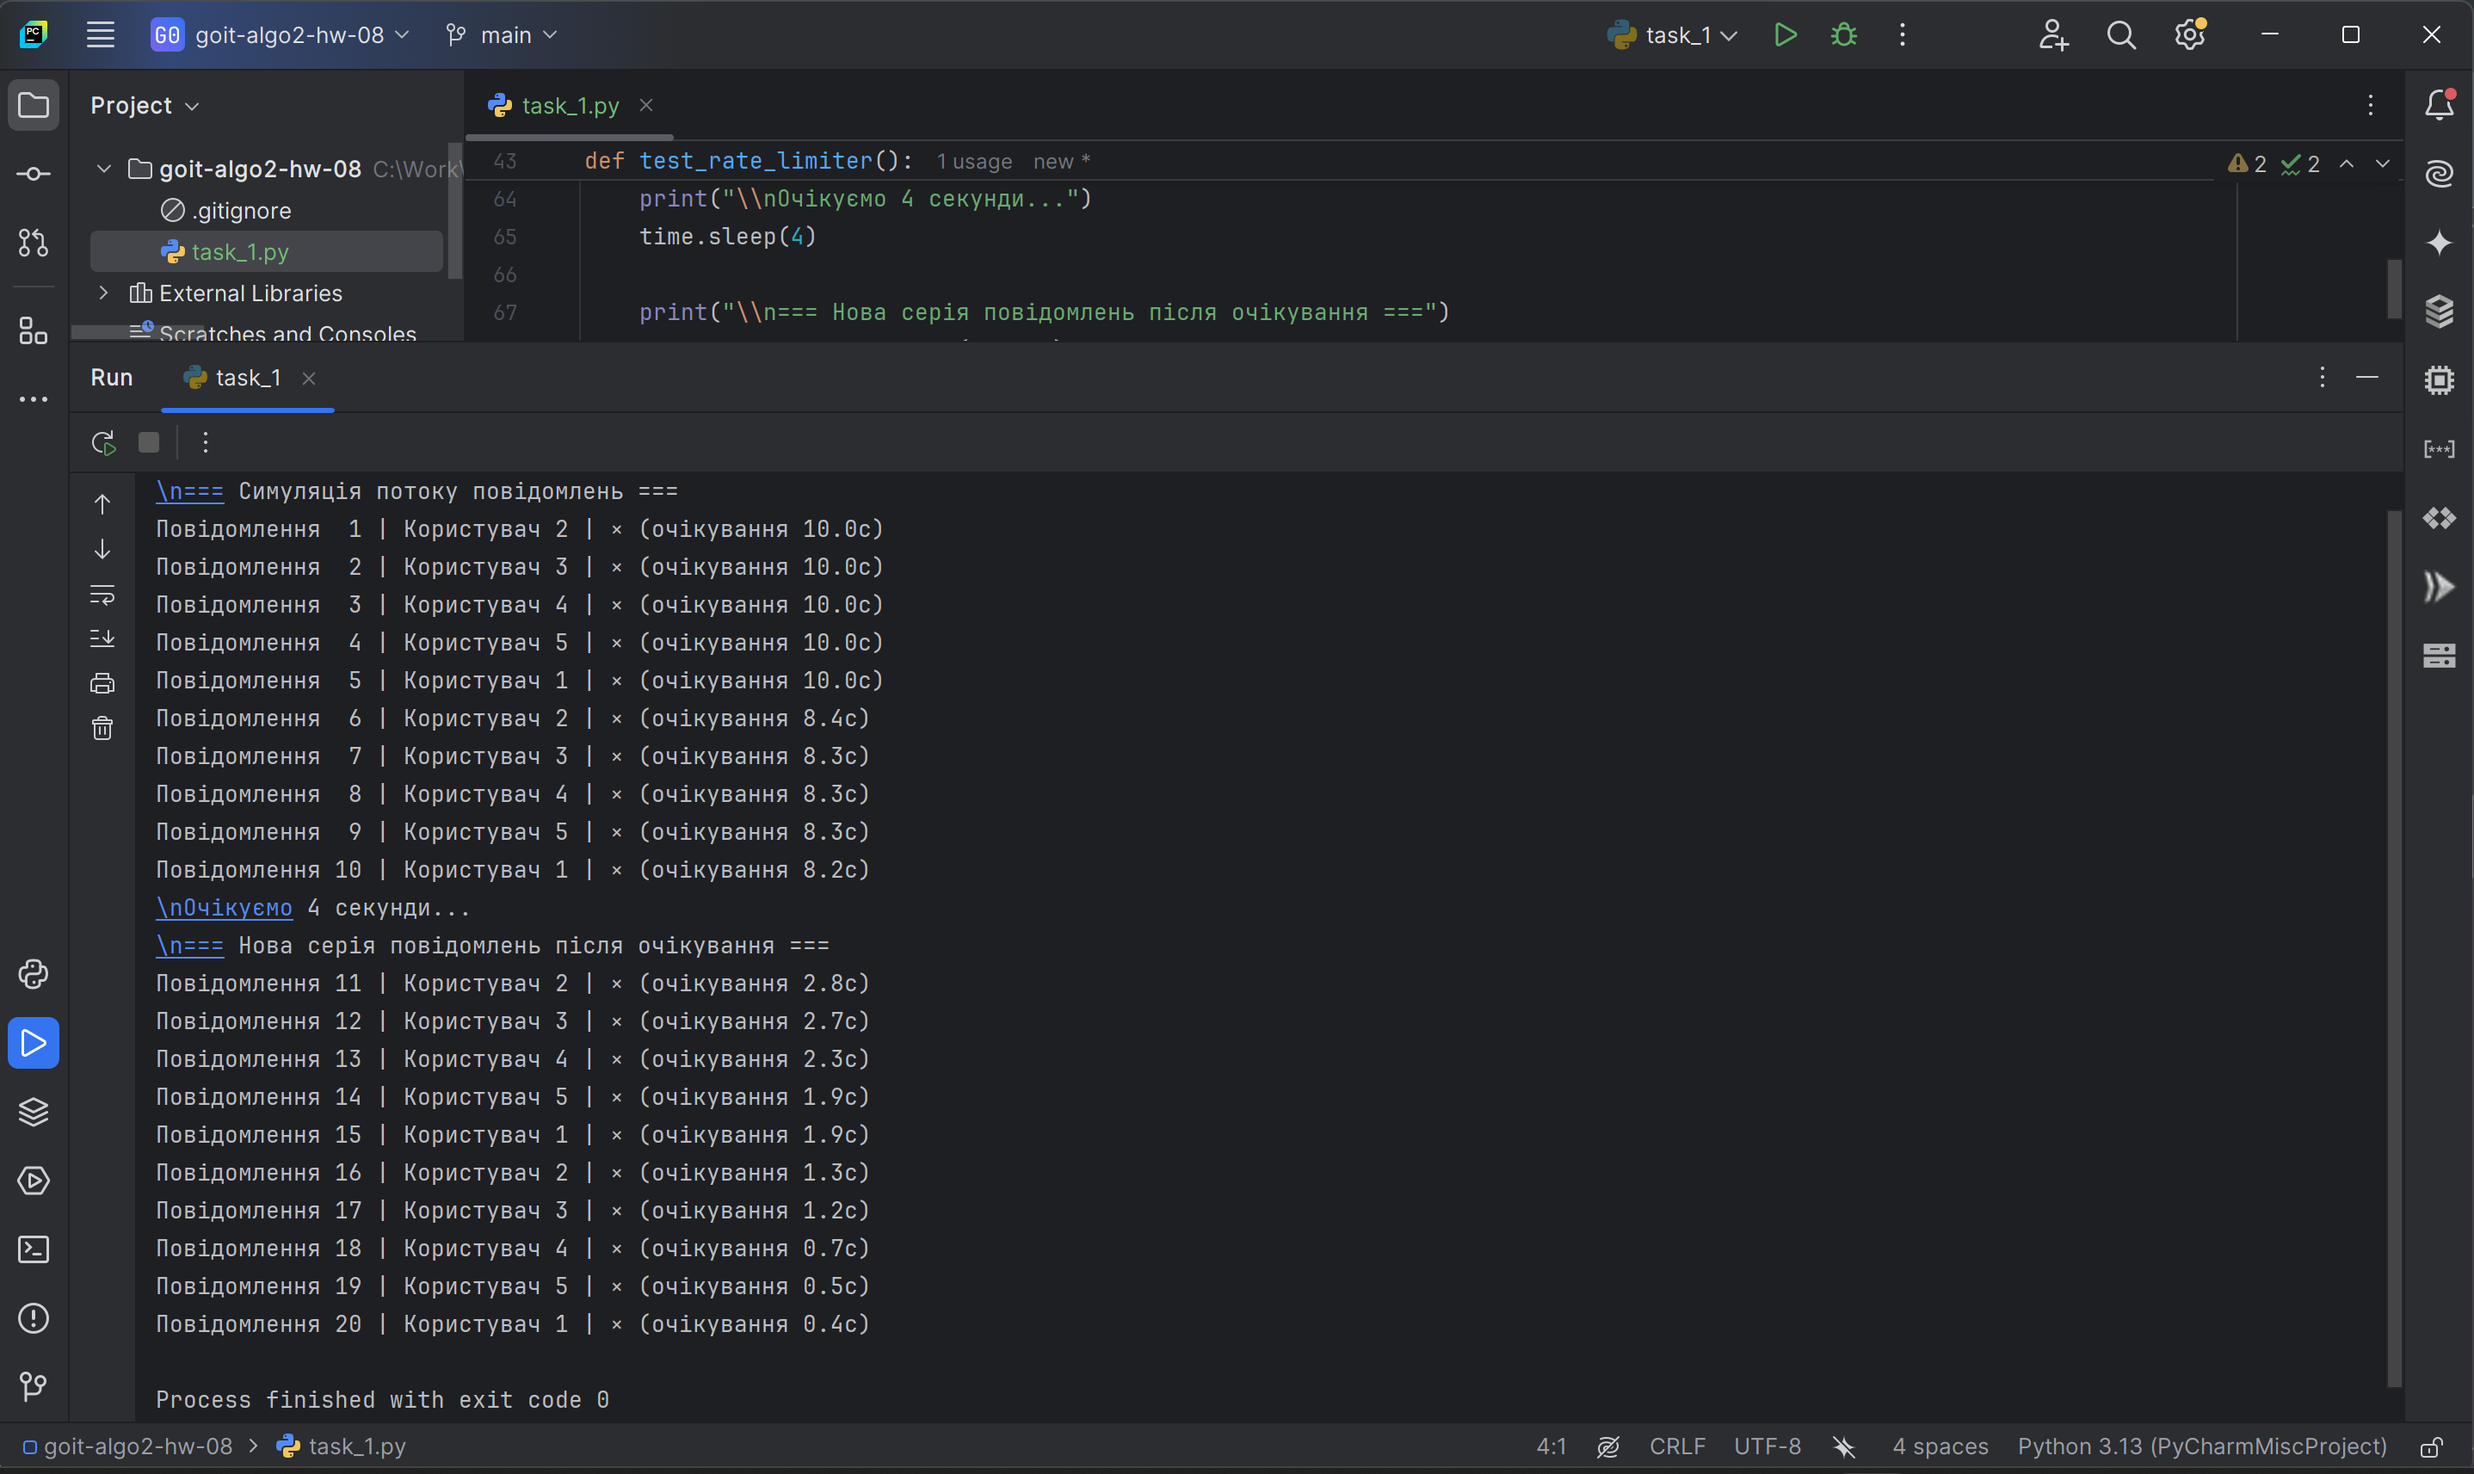
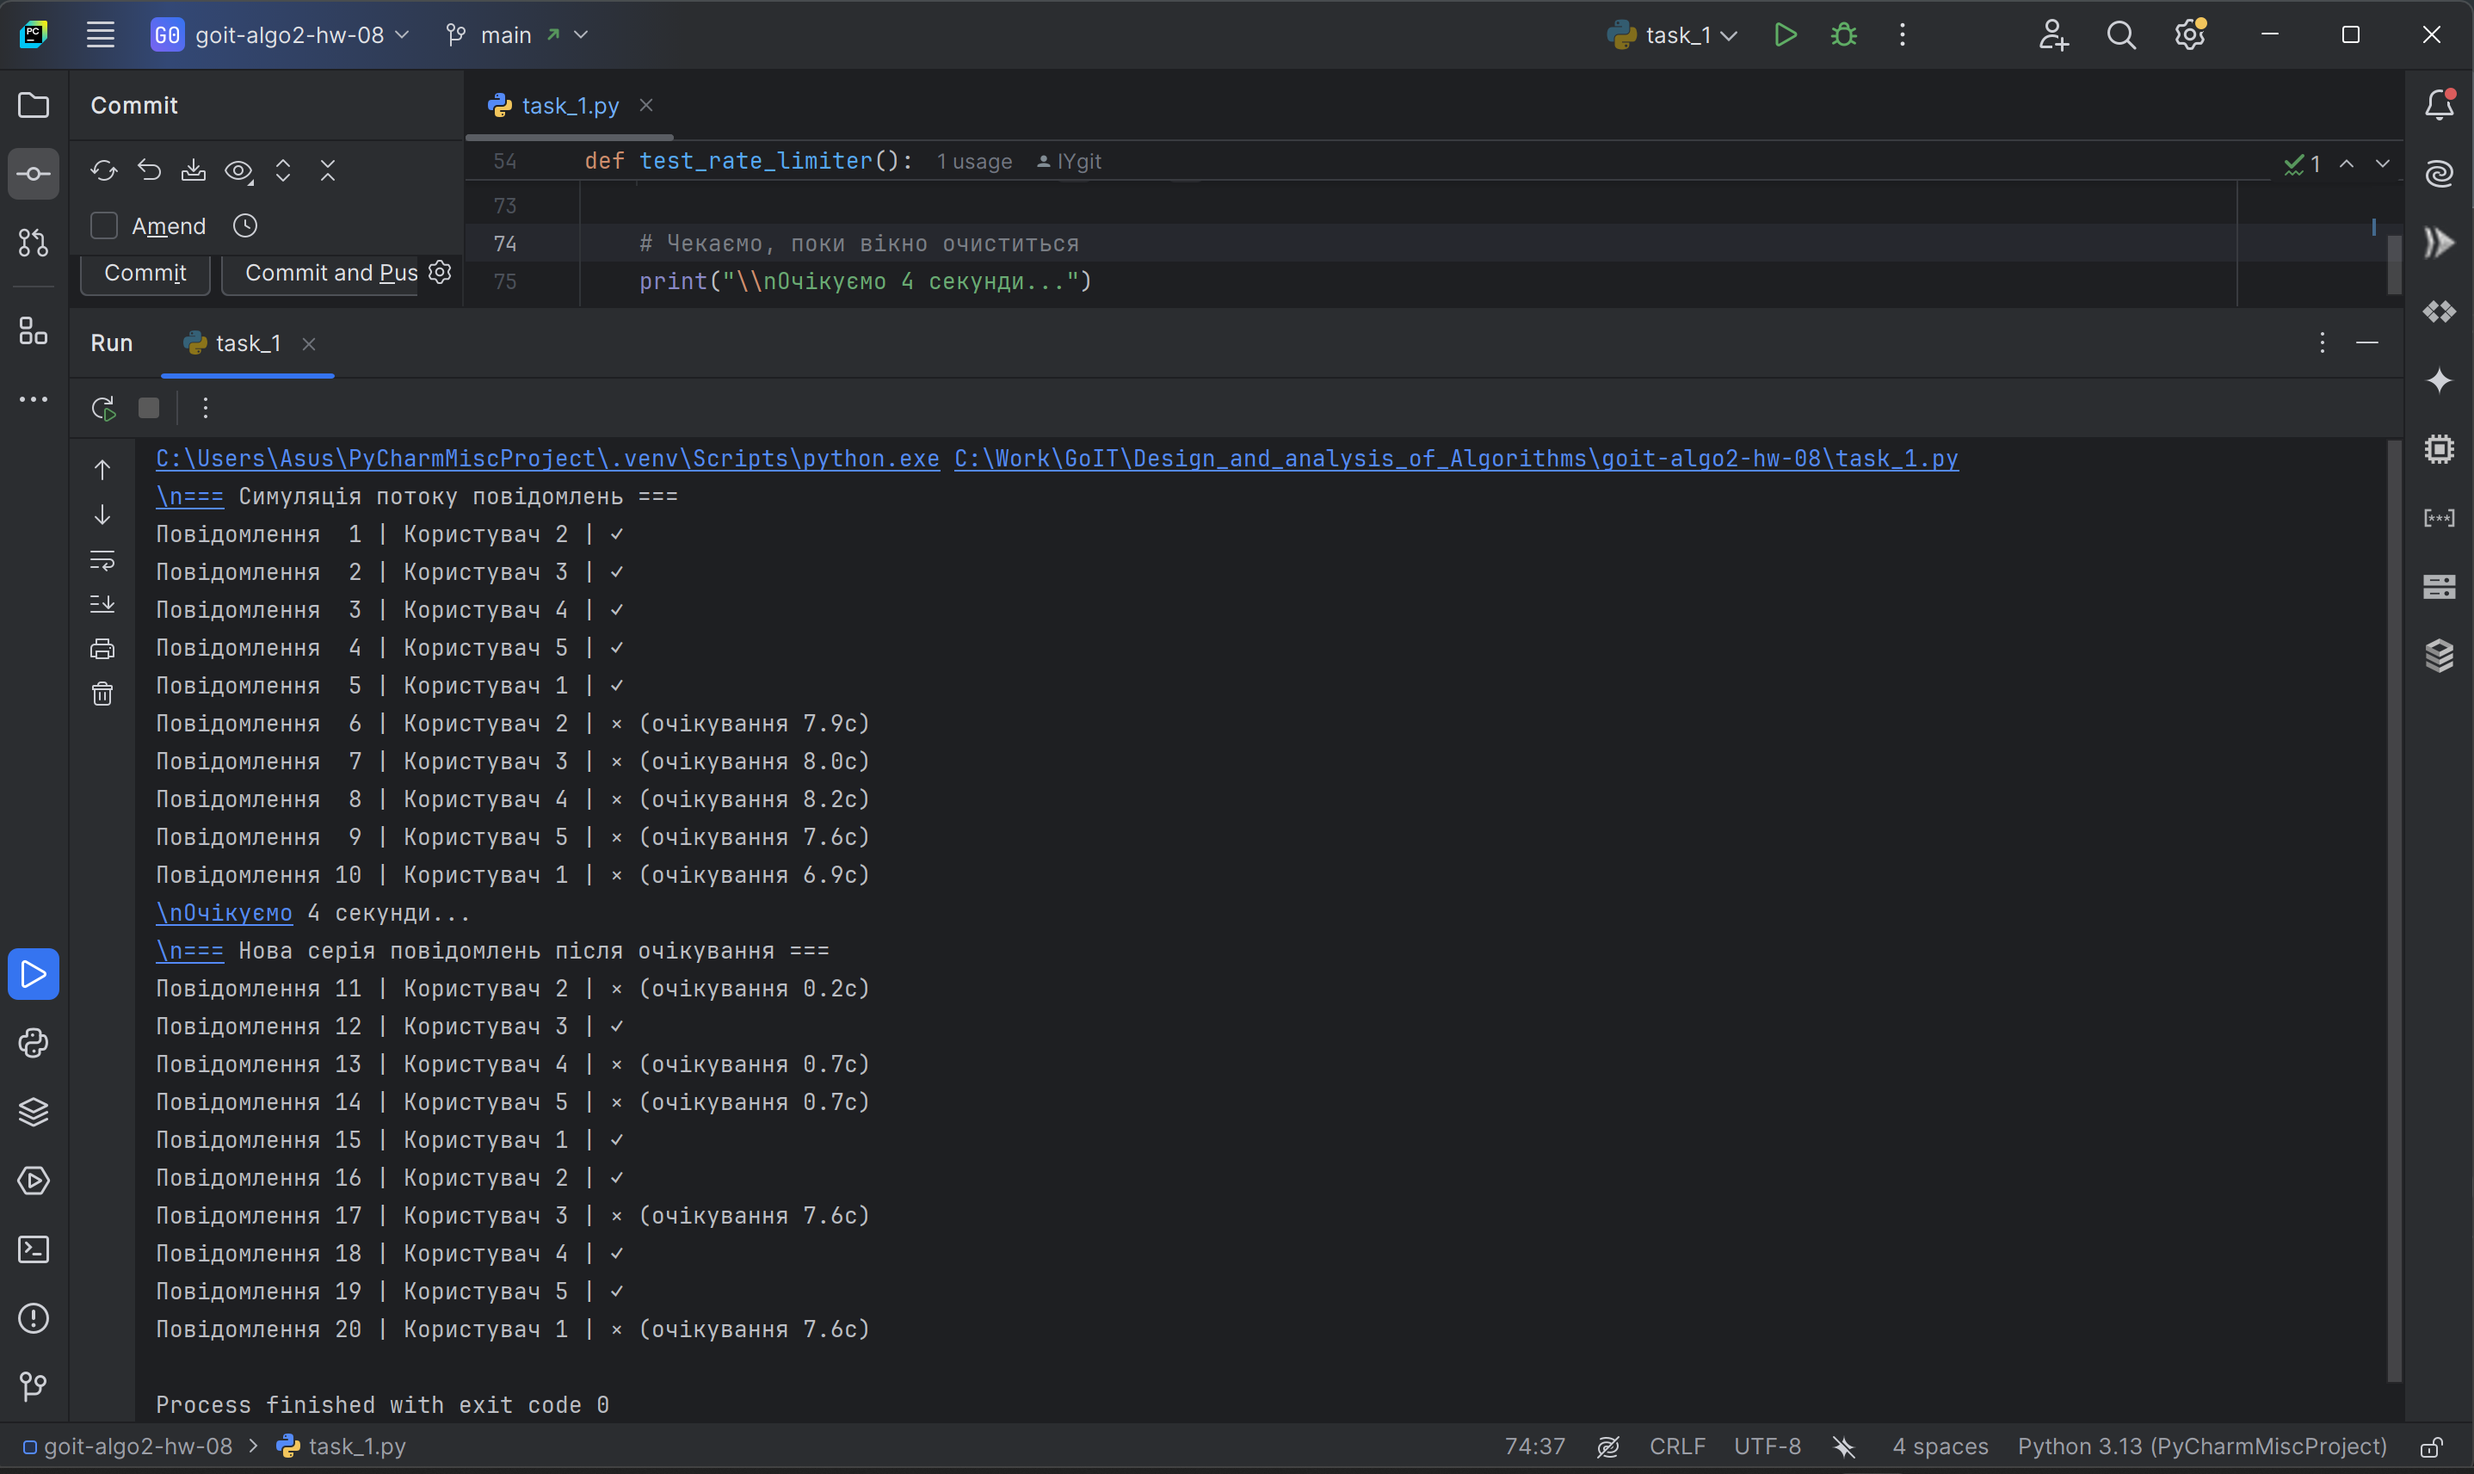
record_message fix

diff --git a/task_1.py b/task_1.py
@@ -24,9 +24,20 @@ class SlidingWindowRateLimiter:
         return len(self.user_messages[user_id]) < self.max_requests
 
     def record_message(self, user_id):
-        """Записати повідомлення користувача."""
+        """Спроба записати повідомлення. Повертає True, якщо дозволено."""
         current_time = time.time()
-        self.user_messages[user_id].append(current_time)
+        window_start = current_time - self.window_size
+
+        # Очистити старі повідомлення поза межами вікна
+        messages = self.user_messages[user_id]
+        while messages and messages[0] < window_start:
+            messages.popleft()
+
+        if len(messages) < self.max_requests:
+            messages.append(current_time)
+            return True
+        else:
+            return False
 
     def time_until_next_allowed(self, user_id):
         """Скільки часу залишилось до наступного дозволеного повідомлення."""
